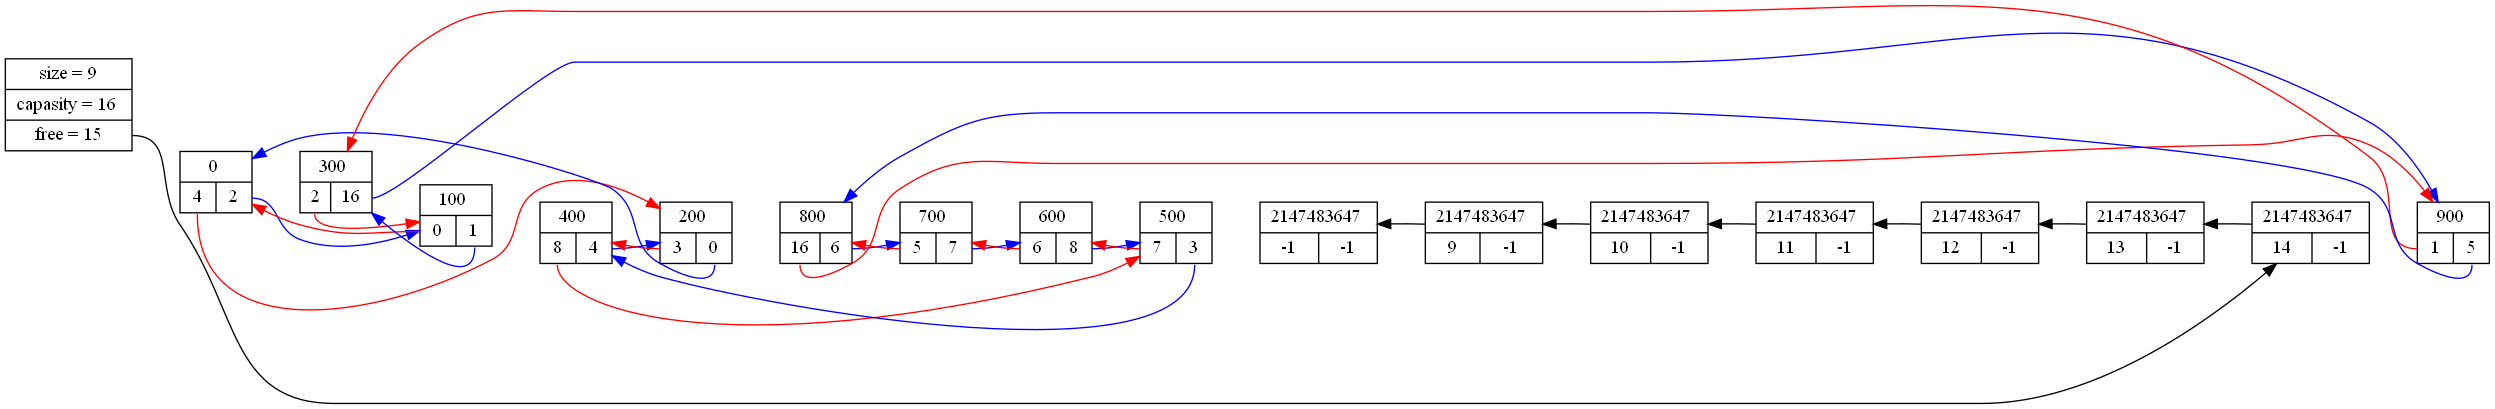
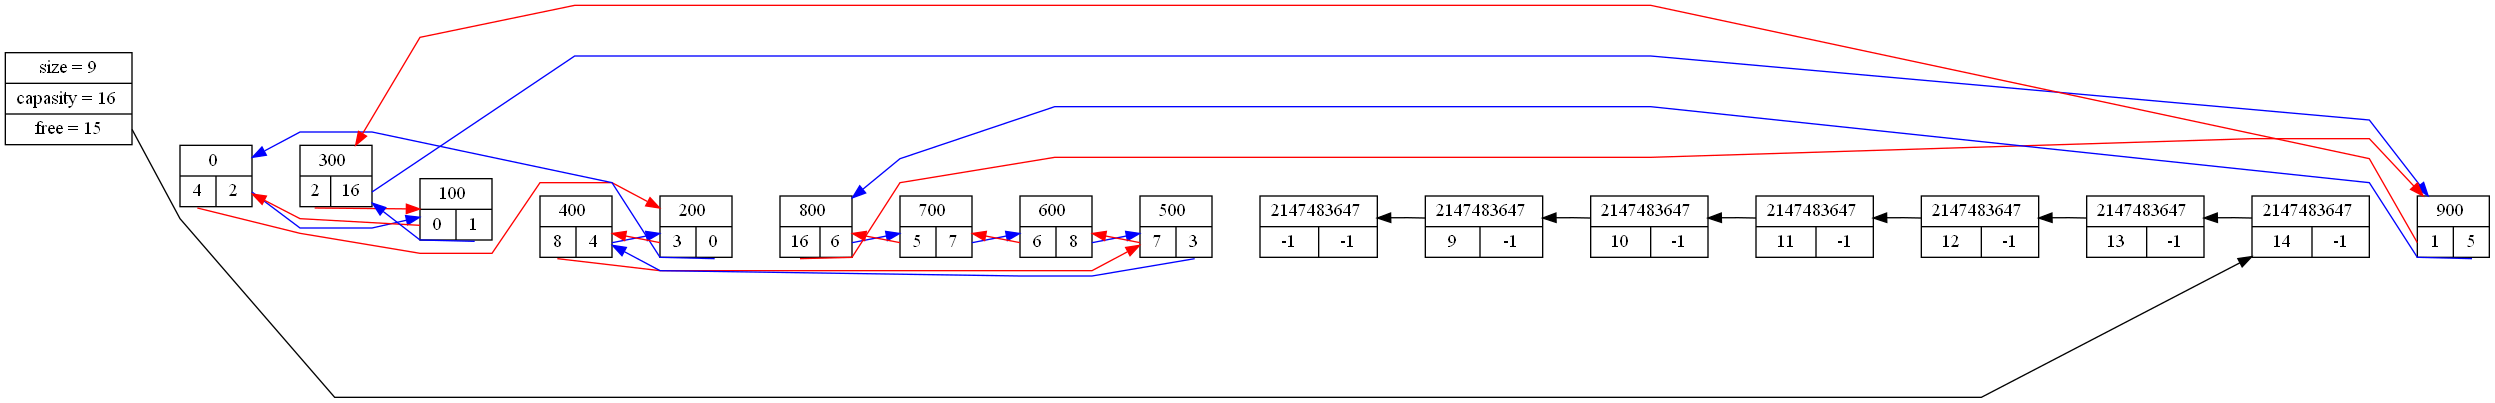
add linerization function

diff --git a/List/List.h b/List/List.h
@@ -6,7 +6,7 @@
 #include "..\Libs\Logging\Logging.h"
 #include "..\Libs\Errors.h"
 
-const int         ResizeCoef = 2; 
+const int         ResizeCoef = 2;
 const void*       POISON_PTR = (void*)13;
 const ListElem_t  POISON     = 0X7FFFFFFF;
 
@@ -63,7 +63,7 @@ int ResizeUp(List* list, int new_capacity);
 
 //!-----------------------
 //!Not iterate if index  indicates to the end of the list
-//!
+//!index will be -1 if there isn`t next element in list
 //!
 //!-----------------------
 int ListIterate(List* list, int* index);
@@ -85,6 +85,9 @@ int ListIterate(List* list, int* index)
 {
     ReturnIfError(ListCheck(list));
     CHECK(index == nullptr || index == POISON_PTR, "index = nullptr", -1);
+
+    if (*index < 0 || *index >= list->capacity)
+        return 0;
 
     if (list->data[*index].next != 0)
         *index = list->data[*index].next;
@@ -114,6 +117,48 @@ int ListEnd(List* list, int *index)
         *index = -1;
 
     return 0;    
+}
+
+int ListLinerization(List* list)
+{
+    ReturnIfError(ListCheck(list));
+
+    if (list->size <= 1)
+        return 0;
+
+    ListElem* new_data = (ListElem*)calloc(list->capacity + 1, sizeof(ListElem));
+
+    int index = 0;
+    for(int i = 0; i < list->size; i++)
+    {
+        ListIterate(list, &index);
+        if (index == -1)
+            return -1;
+
+        new_data[i + 1].val  = list->data[index].val;
+
+        if (i + 1 == list->size)
+            new_data[i + 1].next = 0;
+        else
+            new_data[i + 1].next = i + 2;
+        new_data[i + 1].prev = i;
+    }
+    new_data[0].next = 1;
+    new_data[0].prev = list->size;
+
+    free(list->data);
+    list->data = new_data;
+
+    list->free = list->size + 1;
+    for(int i = list->size + 1; i < list->capacity; i++)
+    {
+        list->data[i].prev = i + 1;
+        list->data[i].next = -1;
+    }
+    list->data[list->capacity].prev = -1;
+    list->data[list->capacity].next = -1;
+
+    return 0;
 }
 
 int PhysIndexToLogical(List* list, int phys_index, int* log_index)
@@ -152,7 +197,8 @@ void GraphicDump(List* list)
     fprintf(fp, "digraph{\n");
     fprintf(fp, "rankdir=LR;\n"                                 \
                 "node[shape = record, fontsize=14];\n"          \
-                "edge[style = invis, weight = 7]\n");
+                "edge[style = invis, weight = 7]\n"             \
+                "splines=polyline\n");
 
     if (list == nullptr || list == POISON_PTR) 
         return;
@@ -171,8 +217,7 @@ void GraphicDump(List* list)
     }
 
     int index = 0;
-    fprintf(fp, "splines=polyline\n"\
-                "edge [style = solid, color = \"red\", weight = 1]\n");
+    fprintf(fp, "edge [style = solid, color = \"red\", weight = 1]\n");
     for(int i = 0; i <= list->size; i++)
     {
         int prev = list->data[index].prev;
@@ -180,8 +225,7 @@ void GraphicDump(List* list)
         index = prev;
     }
     
-    fprintf(fp, "splines=ortho\n"\
-                "edge [splines=ortho,style = solid, color = \"blue\", weight = 1]\n");
+    fprintf(fp, "edge [style = solid, color = \"blue\", weight = 1]\n");
     index = 0;
     for(int i = 0; i <= list->size; i++)
     {
@@ -190,13 +234,12 @@ void GraphicDump(List* list)
         index = next;
     }
 
-    fprintf(fp, "splines=spline\n"\
-                "edge [splines=ortho, style = solid, color = \"black\", weight = 1]\n");
+    fprintf(fp, "edge [style = solid, color = \"black\", weight = 1]\n");
     index = list->free;
     if (index != -1)
     {
         fprintf(fp, "info:<f> -> Node%d\n", index);
-        for(int i = 0; i <= list->capacity; i++)
+        for(int i = 0; i <= list->capacity; i++)    
         {
             int free_ind = list->data[index].prev;
             if (free_ind == -1)

diff --git a/main.cpp b/main.cpp
@@ -1,4 +1,6 @@
 #include <stdio.h>
+#include <string.h>
+
 
 typedef int ListElem_t;
 
@@ -32,14 +34,16 @@ int main()
     ListInsert(&list, 900, 1);
 
     GraphicDump(&list);
+
+    //const char comand_prototipe[] = "Dot dump%d -o Dump%d.png -T png";
+    
+    //char comand[50] = "";
+    //sprintf(comand, comand_prototipe, counter);
     system("Dot dump0 -o Dump0.png -T png");
     
-    for(int i = 1; i < 17; i++)
-    {
-        int index = 0;
-        PhysIndexToLogical(&list, i, &index);
-        printf("[%d] = %d\n",i, index);
-    }
+    ListLinerization(&list);
+    GraphicDump(&list);
+    system("Dot dump1 -o Dump1.png -T png");
 
     printf("End\n");
     CloseHtmlLogFile();
